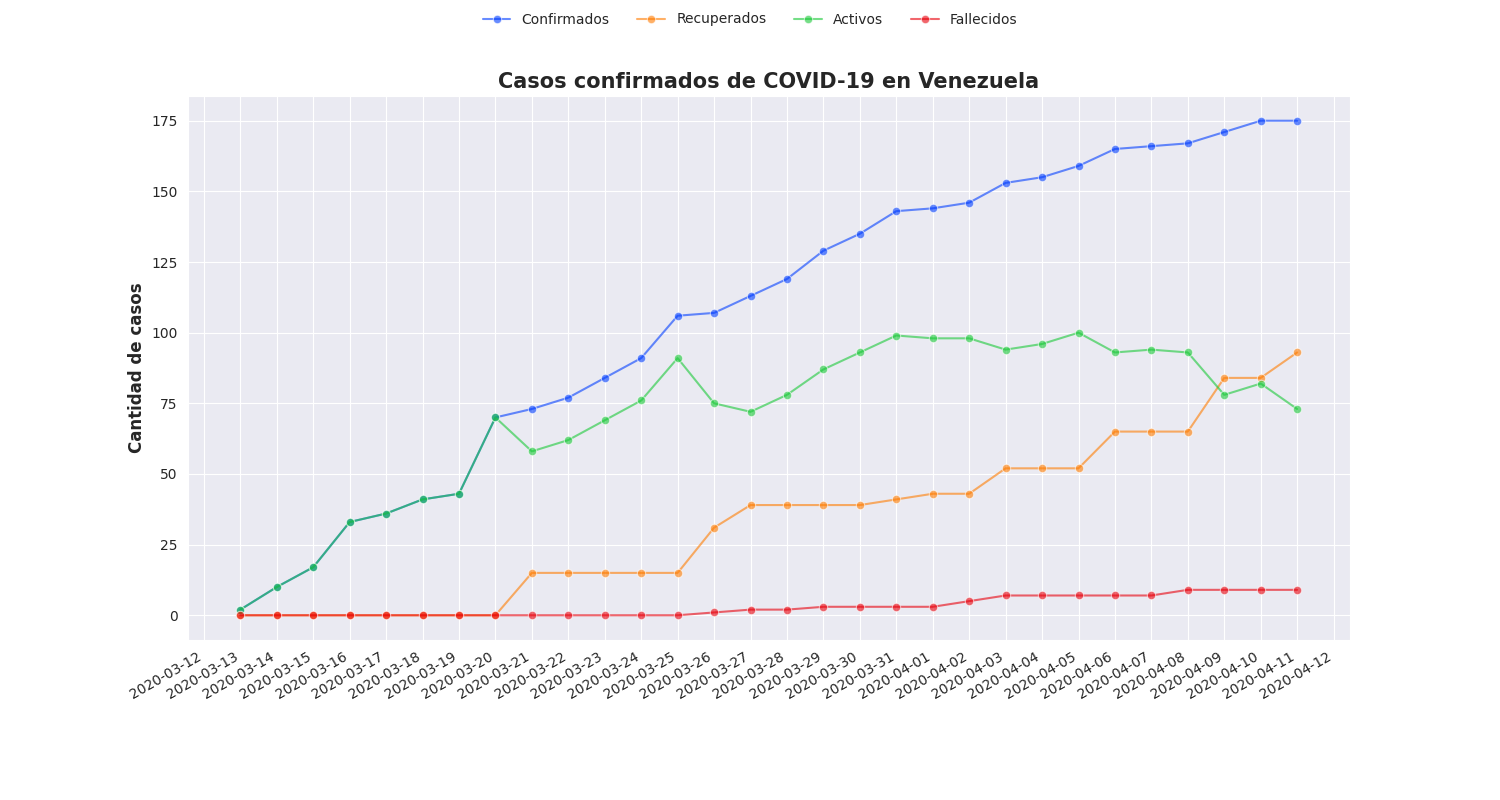
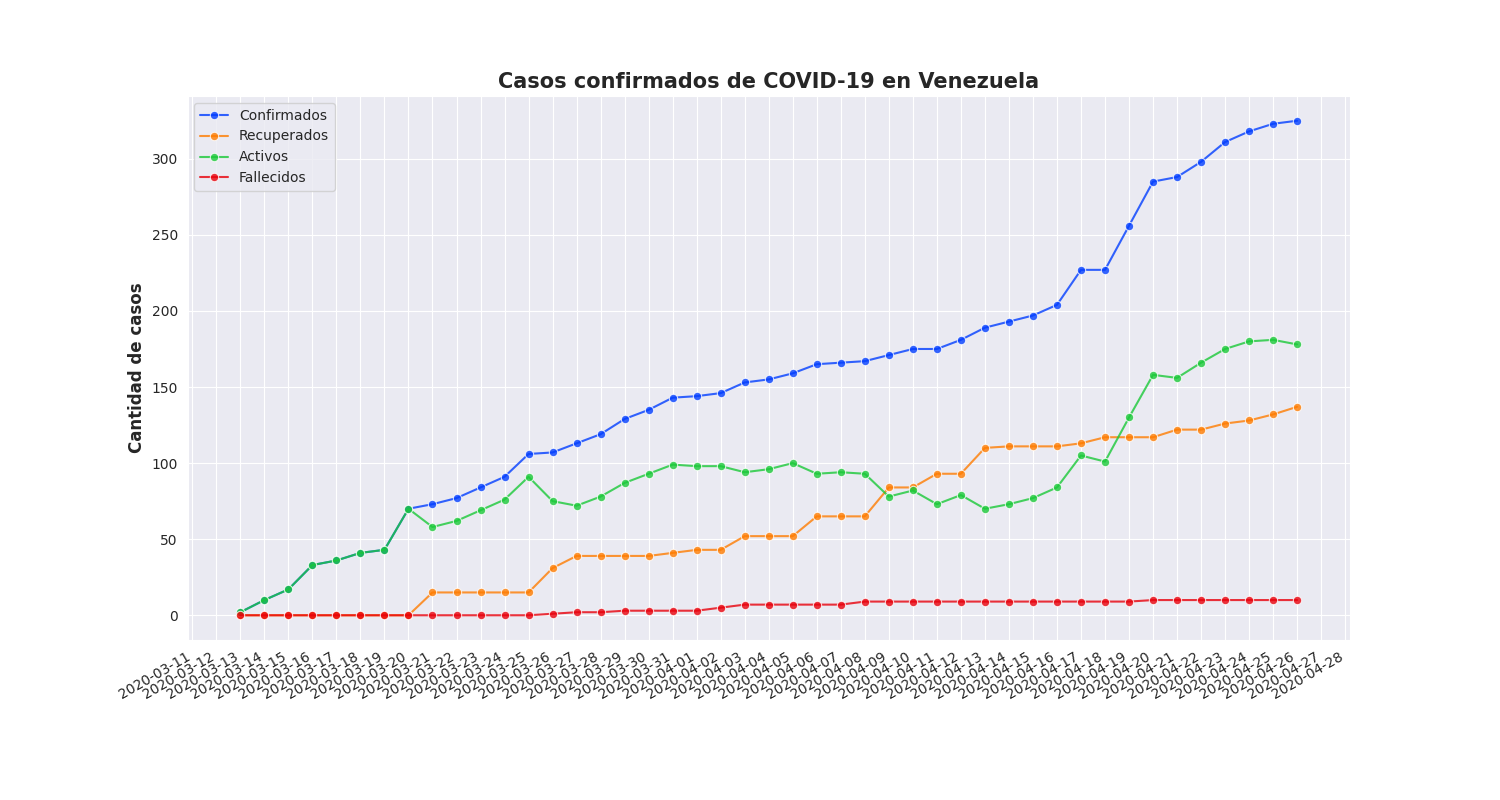
Correcciones menores. Se cambia disposición de gráficas en los casos acumulados para una mejor visualización

diff --git a/corona-ve.py b/corona-ve.py
@@ -4,7 +4,7 @@
 """
 Visualización del Corona Virus en Venezuela
 utilizando el API de https://covid19.patria.org.ve/api-covid-19-venezuela/
-por David Hernandez APonte <@davidhdz> 2020
+por David Hernandez Aponte <@davidhdz> 2020
 """
 
 import seaborn as sns
@@ -19,18 +19,14 @@ import pandas as pd
 dims = (15, 8)
 
 # Patch para leyenda del gráfico de barras de Casos nuevos
-l1 = mpatches.Patch(color='#2A5CFF', alpha=0.6, label='Confirmados')
-l2 = mpatches.Patch(color='#FF9028', alpha=0.6, label='Recuperados')
-l3 = mpatches.Patch(color='#3ED157', alpha=0.6, label='Activos')
-l4 = mpatches.Patch(color='#EB2831', alpha=0.6, label='Fallecidos')
+l1 = mpatches.Patch(color='C0', alpha=0.8, label='Confirmados')
+l2 = mpatches.Patch(color='C1', alpha=0.8, label='Recuperados')
+l3 = mpatches.Patch(color='C2', alpha=0.8, label='Activos')
+l4 = mpatches.Patch(color='C3', alpha=0.8, label='Fallecidos')
 
 # Personalización general de los gráficos
 sns.set_style("darkgrid")
 sns.set_palette("bright")
-
-# Variables para el gráfico de distribución de casos por género
-colors = ['#2A5CFF99', '#FF902899']
-explode = (0.1, 0)
 
 
 # Función para añadir valores encima de las barras
@@ -90,34 +86,38 @@ try:
     confirmed_lines = sns.lineplot(
         x="Date",
         y="Count",
-        alpha=0.6,
+        alpha=0.8,
         markers=True,
         marker="o",
-        data=confirmados
+        data=confirmados,
+        label='Confirmados'
     )
     recovered_lines = sns.lineplot(
         x="Date",
         y="Count",
-        alpha=0.6,
+        alpha=0.8,
         markers=True,
         marker="o",
-        data=recuperados
+        data=recuperados,
+        label='Recuperados'
     )
     actives_lines = sns.lineplot(
         x="Date",
         y="Count",
-        alpha=0.6,
+        alpha=0.8,
         markers=True,
         marker="o",
-        data=activos
+        data=activos,
+        label='Activos'
     )
     deaths_lines = sns.lineplot(
         x="Date",
         y="Count",
-        alpha=0.6,
+        alpha=0.8,
         markers=True,
         marker="o",
-        data=fallecidos
+        data=fallecidos,
+        label='Fallecidos'
     )
 
     plt.xlabel("", fontsize=12, weight='bold')
@@ -126,8 +126,6 @@ try:
             fontsize=15, weight='bold')
     confirmed_lines.xaxis.set_major_locator(mdates.DayLocator(interval=1))
     confirmed_lines.figure.autofmt_xdate()
-    fig1.legend(labels=['Confirmados', 'Recuperados', 'Activos',
-                        'Fallecidos'], frameon=False, loc='upper center', ncol=4)
 
     fig1.savefig("fig1.png")
 
@@ -136,7 +134,7 @@ try:
     fig2 = plt.figure(figsize=dims)
 
     new_cases = sns.barplot(x="Date", y="vals", hue="cols",
-                            data=df_nuevos, alpha=0.6, palette=["C0", "C1", "C3"], dodge=True)
+                            data=df_nuevos, alpha=0.8, palette=["C0", "C1", "C3"], dodge=True)
     new_cases.figure.autofmt_xdate(rotation='90', ha="center")
 
     show_values_on_bars(new_cases)
@@ -150,23 +148,23 @@ try:
 
 
     # Gráfico de casos en Venezuela
-    fig3, axes = plt.subplots(2, 2, figsize=dims, sharex=True, sharey=True)
+    fig3, axes = plt.subplots(4, figsize=dims, sharex=True, sharey=True)
 
     confirmed_bars = sns.barplot(
-        x="Date", y="Count", data=confirmados, color="#2A5CFF", alpha=0.6, ax=axes[0, 0])
+        x="Date", y="Count", data=confirmados, color="C0", alpha=0.8, ax=axes[0])
     recovered_bars = sns.barplot(
-        x="Date", y="Count", data=recuperados, color="#FF9028", alpha=0.6, ax=axes[0, 1])
+        x="Date", y="Count", data=recuperados, color="C1", alpha=0.8, ax=axes[1])
     actives_bars = sns.barplot(
-        x="Date", y="Count", data=activos, color="#3ED157", alpha=0.6, ax=axes[1, 0])
+        x="Date", y="Count", data=activos, color="C2", alpha=0.8, ax=axes[2])
     deaths_bars = sns.barplot(
-        x="Date", y="Count", data=fallecidos, color="#EB2831", alpha=0.6, ax=axes[1, 1])
+        x="Date", y="Count", data=fallecidos, color="C3", alpha=0.8, ax=axes[3])
 
     show_values_on_bars(axes)
     confirmed_bars.set(xlabel='', ylabel='Cantidad de casos')
-    recovered_bars.set(xlabel='', ylabel='')
+    recovered_bars.set(xlabel='', ylabel='Cantidad de casos')
     actives_bars.set(xlabel='', ylabel='Cantidad de casos')
-    deaths_bars.set(xlabel='', ylabel='')
-    plt.suptitle('Casos de COVID-19 en Venezuela (acumulados por día)',
+    deaths_bars.set(xlabel='', ylabel='Cantidad de casos')
+    plt.suptitle('Casos de COVID-19 en Venezuela (acumulados)',
                 fontsize=15, weight='bold')
     actives_bars.figure.autofmt_xdate(rotation='90', ha='center')
     fig3.legend(handles=[l1, l2, l3, l4], frameon=False,
@@ -178,7 +176,7 @@ try:
     # Gráfico de distribución por género de casos en Venezuela
     fig4, ax4 = plt.subplots(figsize=dims)
 
-    ax4.pie(count_gender, labels=labels_gender, colors=colors,
+    ax4.pie(count_gender, labels=labels_gender, colors=['C0', 'C1'], wedgeprops={'alpha':0.8},
             autopct=lambda p: '{:.0f}'.format(p * int(summary.Confirmed['Count']) / 100), shadow=False, startangle=90)
 
     centre_circle = plt.Circle((0, 0), 0.7, fc='white')
@@ -195,10 +193,10 @@ try:
     # Gráfico de distribución por edades de casos en Venezuela
     fig5, ax5 = plt.subplots(figsize=dims)
 
-    gender_bars = sns.barplot(x="Range", y="Count", data=df_ages, alpha=0.6)
+    gender_bars = sns.barplot(x="Range", y="Count", data=df_ages, alpha=0.8)
 
     show_values_on_bars(gender_bars)
-    plt.xlabel("", fontsize=12, weight='bold')
+    plt.xlabel("Rango de edad", fontsize=12, weight='bold')
     plt.ylabel("Cantidad de casos", fontsize=12, weight='bold')
     plt.title("Distribución de casos por edad",
             fontsize=15, weight='bold')
@@ -226,7 +224,6 @@ try:
     print("Letalidad: \t{0:3.2f}%".format((int(summary.Deaths['Count'])/int(summary.Confirmed['Count']))*100))
     print("Recuperación: \t{0:3.2f}%".format((int(summary.Recovered['Count'])/int(summary.Confirmed['Count']))*100))
     print()
-
 
 except:
     print("Ha ocurrido un error. Intente de nuevo.")

diff --git a/README.md b/README.md
@@ -35,23 +35,24 @@ Script en Python para generación de gráficos referentes a los casos de COVID-1
     
     Casos COVID-19 en Venezuela
     ===========================
-    Confirmados:     175
-    Recuperados:     93
-    Fallecidos:      9
-    Activos:         73
+    Confirmados:     325
+    Recuperados:     137
+    Fallecidos:      10
+    Activos:         178
     
-    Nuevos casos al 11/04/2020
+    Nuevos casos al 26/04/2020
     ===========================
-    Confirmados:     0
-    Recuperados:     9
+    Confirmados:     2
+    Recuperados:     5
     Fallecidos:      0 
     
     Estadísticas
     ===========================
-    Mortalidad:     5.14%
-    Recuperación:   53.14%
+    Letalidad:      3.08%
+    Recuperación:   42.15%
     
 
 ----
 
 Datos adquiridos desde https://covid19.patria.org.ve/api-covid-19-venezuela/
+
